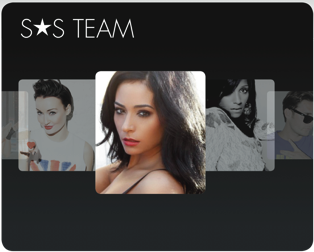
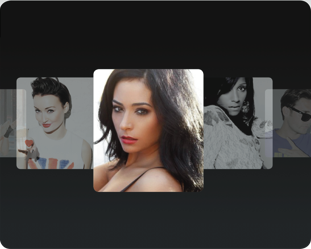
sorting out images and links on front page boxout row

diff --git a/themes/sos/style.css b/themes/sos/style.css
@@ -79,10 +79,10 @@ h1, h2 {
 h2 {
 	font-size: x-large;
 }
-.boxout h2 {
+/*.boxout h2 {
 	color: #fff;
 	font-size: large;
-}
+}*/
 .col h2 {
 	font-size: 21px;
 }
@@ -295,11 +295,18 @@ a.arrow {
 	height: 24px;
 	display: inline-block;
 	background-image: url(images/arrow_l.gif);
+	border: none;
+}
+a.arrow:hover {
+	border: none;
 }
 a.opposite {
 	background-image: url(images/arrow_r.gif);
 }
 /* structure */
+.cols {
+	margin-top: 24px;
+}
 .col, .boxout, .boxoutplain {
 	width: 312px;
 	margin-right: 25px;
@@ -333,8 +340,8 @@ a.boxout:hover {
 	border: none;
 }
 .boxoutRow {
-	overflow: hidden;
 	margin-top: 16px;
+	margin-bottom: 24px;
 }
 .last {
 	margin-right: 0;
@@ -353,7 +360,7 @@ a.boxout:hover {
 		.carousel li {
 			list-style: none;
 			float: left;
-			height: 236px;
+			height: 300px;
 			width: auto;
 		}
 	.carouselContainer .arrow, .teamCarouselContainer .arrow {
@@ -368,7 +375,7 @@ a.boxout:hover {
 		left: auto;
 	}
 .homepageBanner {
-	height: 236px;
+	height: 300px;
 }
 	.eventbox .eventImageContainer {
 		height: 400px;
@@ -505,12 +512,26 @@ a.boxout:hover {
 
 /* boxout backgrounds */
 #teamBoxout {
-	background: #000 url(images/roughs/team_small.png) top left no-repeat;
+	background: transparent url(images/roughs/team_small.png) top left no-repeat;
 }
 #eventsBoxout {
-	background: #fff url(images/roughs/events_image.png) top left no-repeat;
+	position: relative;
+	background-color: transparent;
 }
-
+	#eventsBoxout img {
+		position: absolute;
+		top: 0;
+		left: 0;
+	}
+	#eventsBoxout h2 {
+		position: relative;
+	}
+#pressBoxout {
+	overflow: hidden;
+}
+	#pressBoxout .carousel li {
+		height: 190px;
+	}
 /* YouTube video wall */
 #youtubeChannel ul {
 	margin: 0;

diff --git a/themes/sos/front-page.php b/themes/sos/front-page.php
@@ -4,9 +4,14 @@ get_header();
 ?>
 
 			<div class="boxoutRow">
-				<a class="boxout left" id="teamBoxout"></a>
-				<a class="boxout left" id="eventsBoxout"></a>
-				<div class="boxoutplain left last">
+				<div class="boxout left" id="teamBoxout">
+					<h2><a href="<?php echo home_url('/team/'); ?>">SoS team</a></h2>
+				</div>
+				<div class="boxoutplain left" id="eventsBoxout">
+					<img src="<?php bloginfo('stylesheet_directory'); ?>/images/events.png">
+					<h2><a href="<?php echo home_url('/news/'); ?>">SoS backstage</a></h2>
+				</div>
+				<div class="boxoutplain left last" id="pressBoxout">
 					<h2><a href="<?php echo home_url('/press/'); ?>">SOS Press</a></h2>
 					<div class="pressQuotesContainer carouselContainer">
 						<ul class="carousel">
@@ -29,30 +34,26 @@ get_header();
 				</div>
 			</div>
 			<br class="clearboth">
-			<div class="col left">
-				<h2><img src="<?php bloginfo('stylesheet_directory'); ?>/images/twitter_28-28.gif" class="marginrightsmall"><a href="https://twitter.com/sosfdance" class="twitter-follow-button" data-show-count="false" data-show-screen-name="false">Follow @sosfdance</a>
-					<script>!function(d,s,id){var js,fjs=d.getElementsByTagName(s)[0];if(!d.getElementById(id)){js=d.createElement(s);js.id=id;js.src="//platform.twitter.com/widgets.js";fjs.parentNode.insertBefore(js,fjs);}}(document,"script","twitter-wjs");</script><a href="http://twitter.com/sosfdance" target="_blank">@sosfdance</a></h2>
-                <?php tweet_blender_widget(array(
-                    'unique_div_id' => 'tweetblender-t1',
-                    'sources' => '@sosfdance',
-                    'refresh_rate' => 60,
-                    'tweets_num' => 3
-                )); ?>
-				
-				<!--<ul class="twitter condensed">
-					<li class="marginbottomsmall"><a href="#">SEEN_ON_SCREEN</a> "@turkey_north: @SEEN_ON_SCREEN what's the song for the 14 July workshop?" not sure yet, once it's decided we'll let u know. Any suggestions!?<br><a href="#">3 days ago</a>&nbsp;&middot;&nbsp;<a href="#">reply</a></li>
-					<li class="marginbottomsmall"><a href="#">SEEN_ON_SCREEN</a> If you missed y'days Beyonce workshop (if you did missed out!) don't worry as we are teaching it again on Wednesday night, 7-8pm!<br><a href="#">3 days ago</a>&nbsp;&middot;&nbsp;<a href="#">reply</a></li>
-					<li class="marginbottomsmall"><a href="#">MFParsons</a> MEGA,MEGA,MEGA! Hands down, the best dance class I have ever done,"@SEEN_ON_SCREEN: Ooo come on babaay, you put ma love on top, top, top..."<br><a href="#">3 days ago</a>&nbsp;&middot;&nbsp;<a href="#">reply</a></li>
-				</ul>-->
-			</div>
-			<div class="col left">
-				<h2><img src="<?php bloginfo('stylesheet_directory'); ?>/images/roughs/facebook_large.png" class="marginrightsmall">Like SOS on Facebook</h2>
-				<div class="fb-like-box" data-href="http://www.facebook.com/seenonscreenfitness" data-width="292" data-show-faces="true" data-stream="false" data-header="false"></div>
-			</div>
-			<div class="col left last" id="youtubeChannel">
-				<h2><img src="<?php bloginfo('stylesheet_directory'); ?>/images/youtube_28-28.gif" class="marginrightsmall">Watch Our Latest Videos</h2>
-				<div></div>
-				<!--<img src="<?php bloginfo('stylesheet_directory'); ?>/images/roughs/video_wall.png">-->
+			<div class="cols">
+				<div class="col left">
+					<h2><img src="<?php bloginfo('stylesheet_directory'); ?>/images/twitter_28-28.gif" class="marginrightsmall"><a href="https://twitter.com/sosfdance" class="twitter-follow-button" data-show-count="false" data-show-screen-name="false">Follow @sosfdance</a>
+						<script>!function(d,s,id){var js,fjs=d.getElementsByTagName(s)[0];if(!d.getElementById(id)){js=d.createElement(s);js.id=id;js.src="//platform.twitter.com/widgets.js";fjs.parentNode.insertBefore(js,fjs);}}(document,"script","twitter-wjs");</script><a href="http://twitter.com/sosfdance" target="_blank">@sosfdance</a></h2>
+	                <?php tweet_blender_widget(array(
+	                    'unique_div_id' => 'tweetblender-t1',
+	                    'sources' => '@sosfdance',
+	                    'refresh_rate' => 60,
+	                    'tweets_num' => 3
+	                )); ?>
+				</div>
+				<div class="col left">
+					<h2><img src="<?php bloginfo('stylesheet_directory'); ?>/images/roughs/facebook_large.png" class="marginrightsmall">Like SOS on Facebook</h2>
+					<div class="fb-like-box" data-href="http://www.facebook.com/seenonscreenfitness" data-width="292" data-show-faces="true" data-stream="false" data-header="false"></div>
+				</div>
+				<div class="col left last" id="youtubeChannel">
+					<h2><img src="<?php bloginfo('stylesheet_directory'); ?>/images/youtube_28-28.gif" class="marginrightsmall">Watch Our Latest Videos</h2>
+					<div></div>
+					<!--<img src="<?php bloginfo('stylesheet_directory'); ?>/images/roughs/video_wall.png">-->
+				</div>
 			</div>
 			<br class="clearboth">
 

diff --git a/themes/sos/index.php b/themes/sos/index.php
@@ -1,10 +1,11 @@
 <?php
 /* for blog post index page */
-get_header();
-	if ( have_posts() ) :
+get_header(); ?>
+	<div class="contentPage">
+		<h1>SoS Backstage</h1>
+	<?php if ( have_posts() ) :
 		$count = 0;
 		while ( have_posts() ) : the_post(); ?>
-		<div class="contentPage">
 			<?php if($count==0) :
 				$wrapperClass = 'grid8col';
 				$internalClass = 'grid4col';
@@ -33,8 +34,8 @@ get_header();
 					<a class="cta" href="<?php echo $post_url; ?>">Read more</a>
 				</div>
 			</div>
-		</div>
 		<?php $count++;
 		endwhile;
-	endif;
-get_footer(); ?>
+	endif; ?>
+	</div>
+<?php get_footer(); ?>

diff --git a/themes/sos/functions.php b/themes/sos/functions.php
@@ -4,7 +4,7 @@
 add_theme_support( 'post-thumbnails' );
 
 // Thumbnail sizes
-add_image_size( 'homepage-banner', 990, 236, true );
+add_image_size( 'homepage-banner', 990, 300, true );
 add_image_size( 'team-member', 310, 275 );
 add_image_size( 'content-page', 610, 400 );
 
